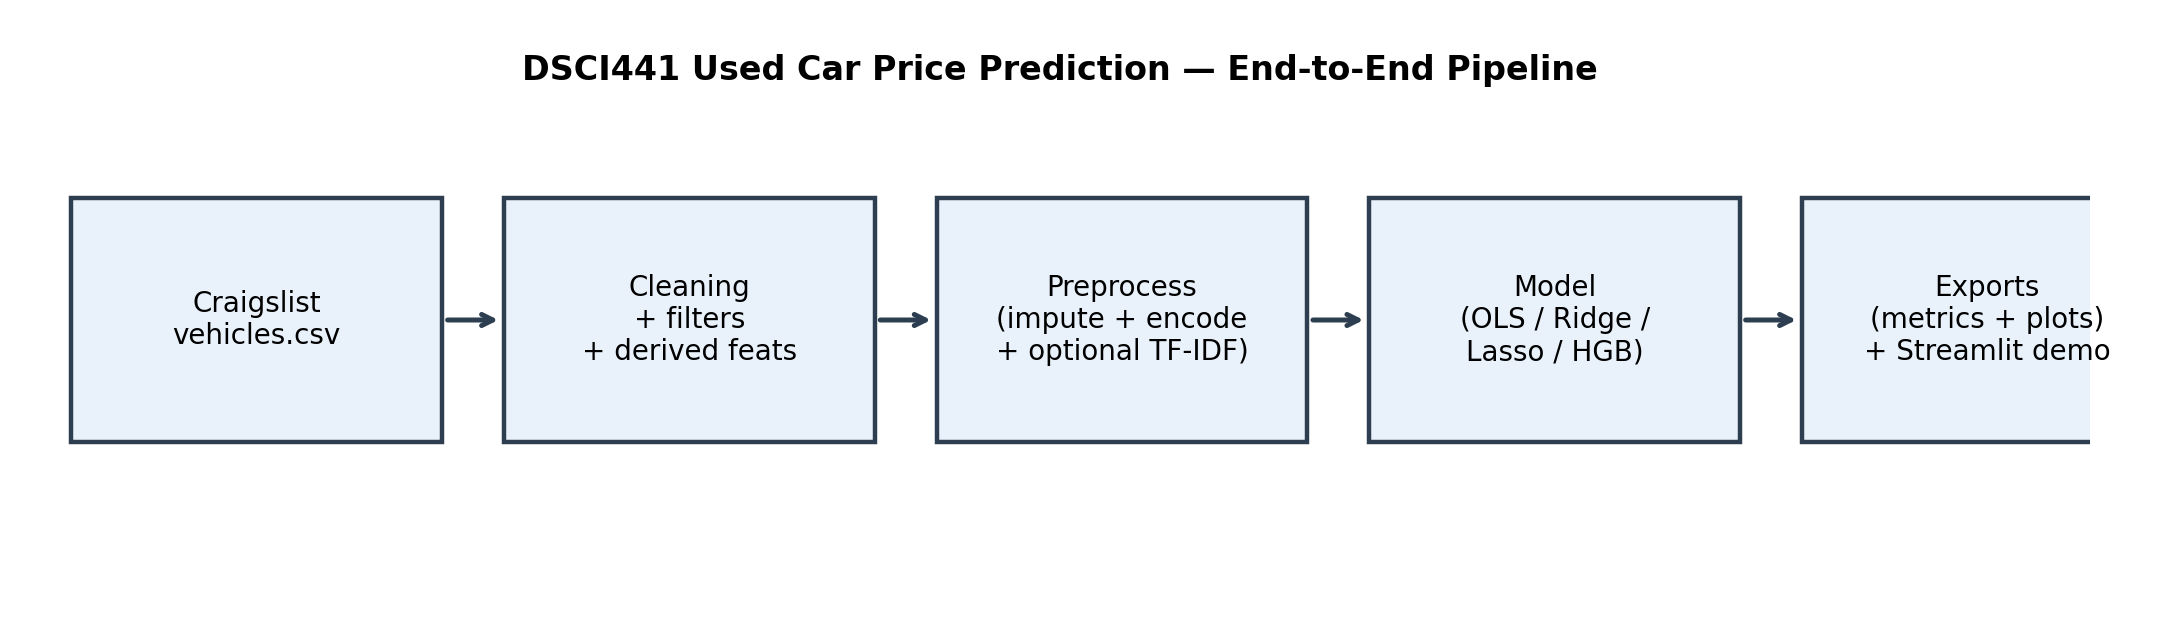
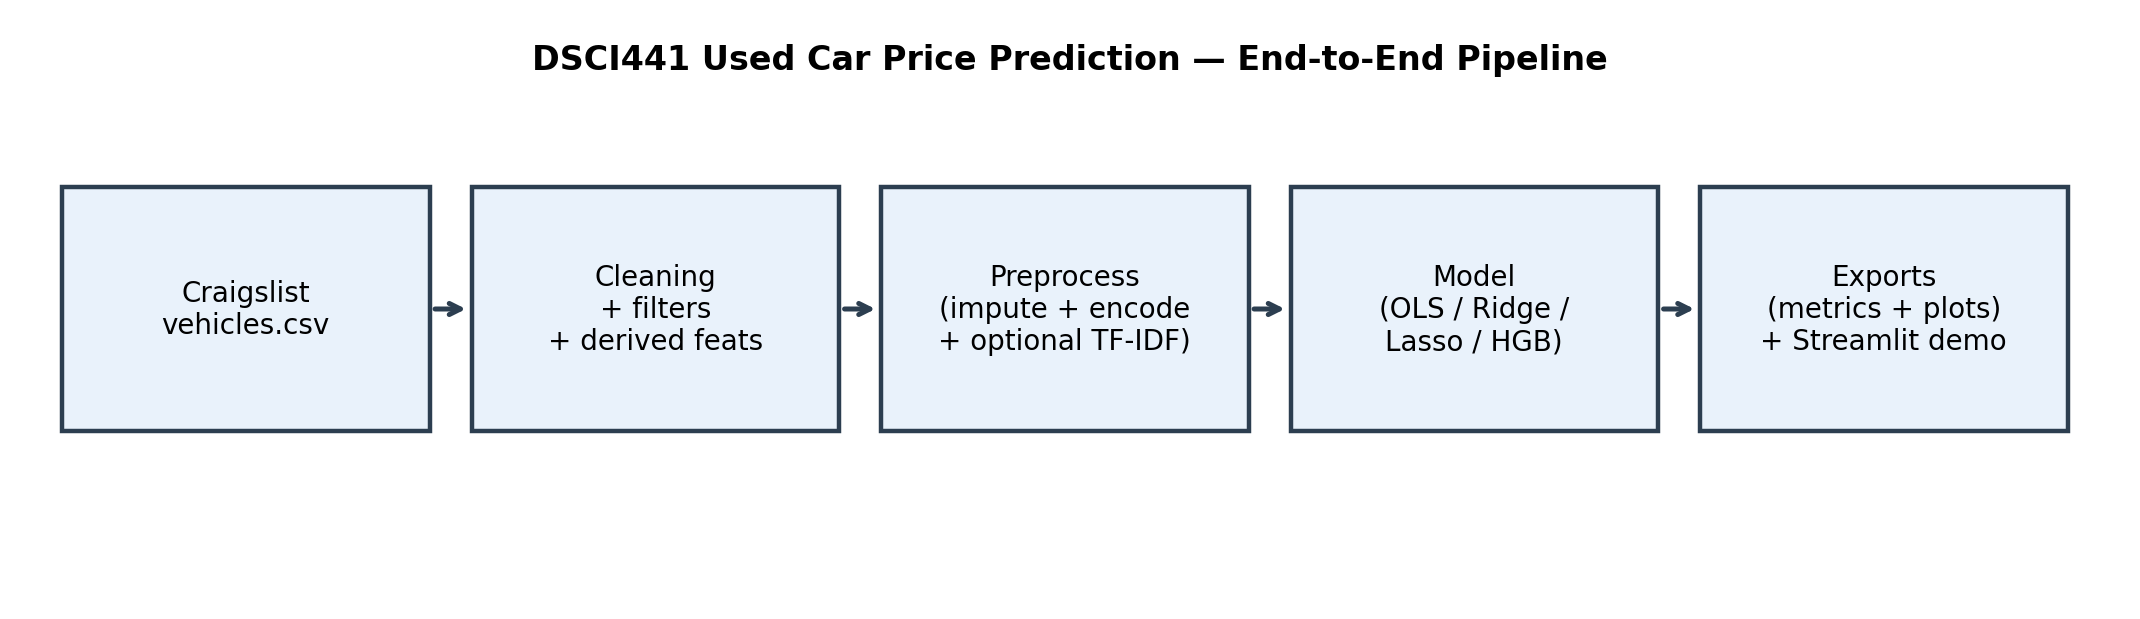
Fix pipeline figure clipping

Changed region(s): [[0.0308, 0.2763, 0.9869, 0.706], [0.2159, 0.0614, 0.771, 0.1228], [0.0617, 0.4604, 0.1542, 0.5525]]

diff --git a/scripts/make_pipeline_figure.py b/scripts/make_pipeline_figure.py
@@ -30,9 +30,10 @@ def make_pipeline_figure(out_png: Path) -> None:
     ax.set_xlim(0, 1)
     ax.set_ylim(0, 1)
 
-    w, h = 0.18, 0.42
+    # Keep all boxes within [0, 1] so the right-most panel is not clipped.
+    w, h = 0.175, 0.42
     y = 0.29
-    xs = [0.02, 0.23, 0.44, 0.65, 0.86]
+    xs = [0.02, 0.215, 0.41, 0.605, 0.8]
 
     _box(ax, (xs[0], y), w, h, "Craigslist\nvehicles.csv")
     _box(ax, (xs[1], y), w, h, "Cleaning\n+ filters\n+ derived feats")
@@ -54,7 +55,7 @@ def make_pipeline_figure(out_png: Path) -> None:
     )
 
     fig.tight_layout()
-    fig.savefig(out_png, dpi=200)
+    fig.savefig(out_png, dpi=200, bbox_inches="tight")
     plt.close(fig)
 
 
@@ -69,4 +70,3 @@ def main() -> int:
 
 if __name__ == "__main__":
     raise SystemExit(main())
-
